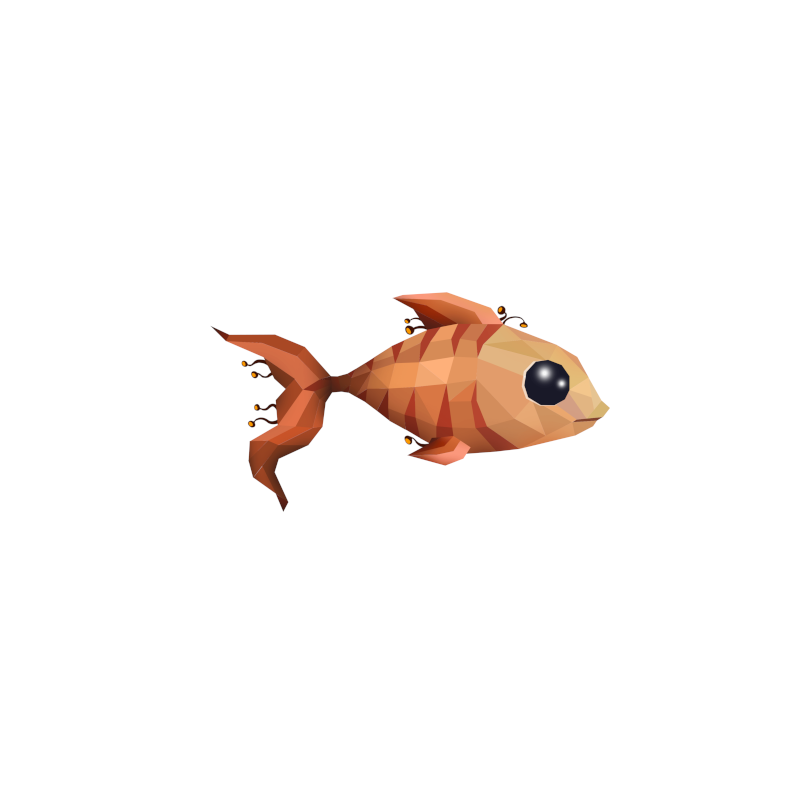
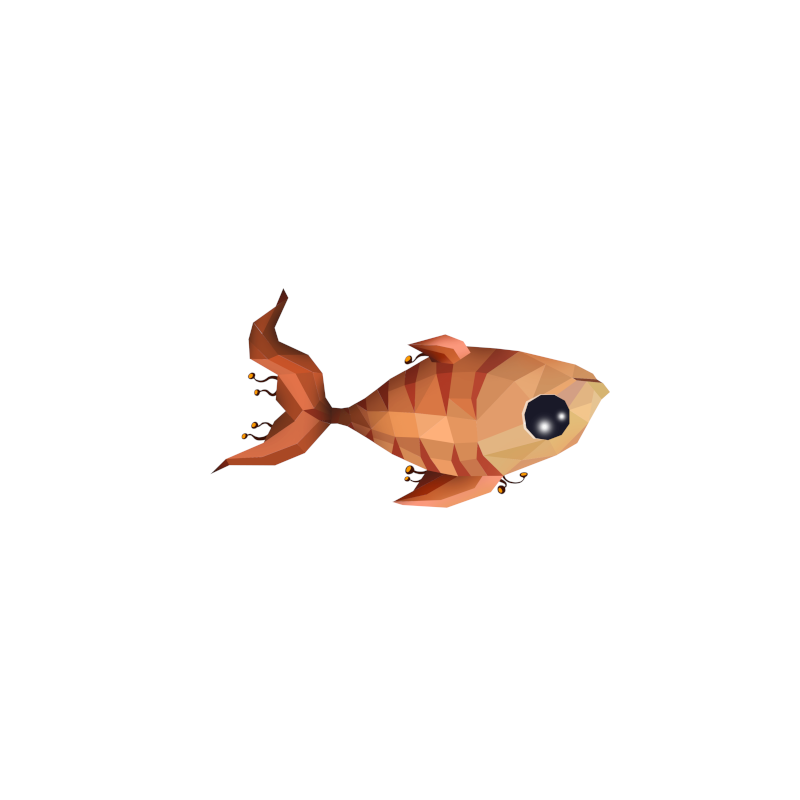
Range scans workgit add -u

Changed region(s): [[0.25, 0.3438, 0.7812, 0.6562]]

diff --git a/Synthetic2D.py b/Synthetic2D.py
@@ -75,7 +75,7 @@ class FakeScanner2D(object):
 
         W, H = self.I.shape
         max_dist = 2*np.sqrt(W**2 + H**2)
-        ring = LinearRing(self.contour)
+        ring = LinearRing(np.fliplr(self.contour)) ## TODO: Why fliplr?
         
         ## These two lines are the key lines for finding the intersection
         ## but the direction will change from towards to something else
@@ -85,7 +85,7 @@ class FakeScanner2D(object):
         
         ## Initialize an array that will hold the range scan, and return 
         ## at the end
-        range_scan = np.inf*np.ones(res)
+        range_scan = np.linspace(np.inf, np.inf, res) 
         
         
         if do_plot: ## Eventually, we want to make sure that even if we choose
@@ -96,13 +96,12 @@ class FakeScanner2D(object):
             plt.scatter([pos[0]], [pos[1]])
             
             thetas = np.linspace(-fov/2, fov/2, res) #all thetas within field of view
-            intersections = np.linspace(np.inf, np.inf, res)  
             
             ## This is the last step of extracting an intersection, so
             ## this is another thing you'll want to do for every ray
             ## This checks if there was an intersection at all
             ## If it doesn't intersect, you can set the range to np.inf (infinity)
-            if len(x) > 0:
+            if not x.is_empty:
                 # If there was an intersection, draw the closest one
                 x = np.array(x[0]) # Extract closest intersection
                 segment = np.array([pos, x]) 
@@ -110,16 +109,17 @@ class FakeScanner2D(object):
                 plt.scatter(x[0], x[1])
             
             #towards = np.array([pos[0], pos[1], x[0], x[1]])
-            towards = np.array([ x[0], x[1]])
+            #towards = np.array([ x[0], x[1]])
 
             #right = np.array([pos[0], pos[1],-x[1], x[0]])
-            right = np.array([-x[1], x[0]])
+            right = np.array([towards[1], -towards[0]])
             
             #plt.plot(right[0::2], right[1::2])
             #plt.scatter(right[2], right[3])
             
-            plt.plot([pos[0], right[0]], [pos[1], right[1]])
-            plt.scatter(right[0], right[1])
+            rightdisp = pos + 50*right
+            plt.plot([pos[0], rightdisp[0]], [pos[1], rightdisp[1]])
+            plt.scatter(rightdisp[0], rightdisp[1])
             
             for i,theta in enumerate(thetas):
                     ## TODO: Update this equation to be in the new coordinate
@@ -129,22 +129,20 @@ class FakeScanner2D(object):
                     ## a is some scalar, and V will then be a 2-element 
                     ## numpy array which you can think of as a vector
                 V = towards + math.atan(theta)*right
-                #plt.plot([pos[0], V[0]], [pos[1], V[1]])
+                plt.plot([pos[0], pos[0]+100*V[0]], [pos[1], pos[1]+100*V[1]])
                 
                 temp_line = LineString([pos, pos+V*max_dist]) #problem line
                 y = temp_line.intersection(ring) #find where these hit contour
                 #print(list(temp_line.coords))
                 #print(list(y.coords))
-                
-                
-                if len(list(y)) > 0: #if so:
-                        y = np.array(y[0])
-                        
-                        plt.scatter(y[0], y[1])
-                        intersections[i] = np.array([y[0], y[1]])#store points in 2d arrays each coordinate pair gets an index
-                        range_scan[i] = math.sqrt( (y[0]*y[0])+(y[1]*y[1])) #depth is magnitude?
-            
+                if not y.is_empty: #if so:
+                    y = np.array(y[0])
+                    plt.scatter(y[0], y[1])
+                    diff = y - pos
+                    dist = np.sqrt(np.sum(diff**2))
+                    range_scan[i] = dist #depth is magnitude?  Yes!
             plt.axis('equal')
+            plt.gca().invert_yaxis()
       
         ## Show the range scan in the second subplot on the right
         plt.subplot(1, 2, 2)
